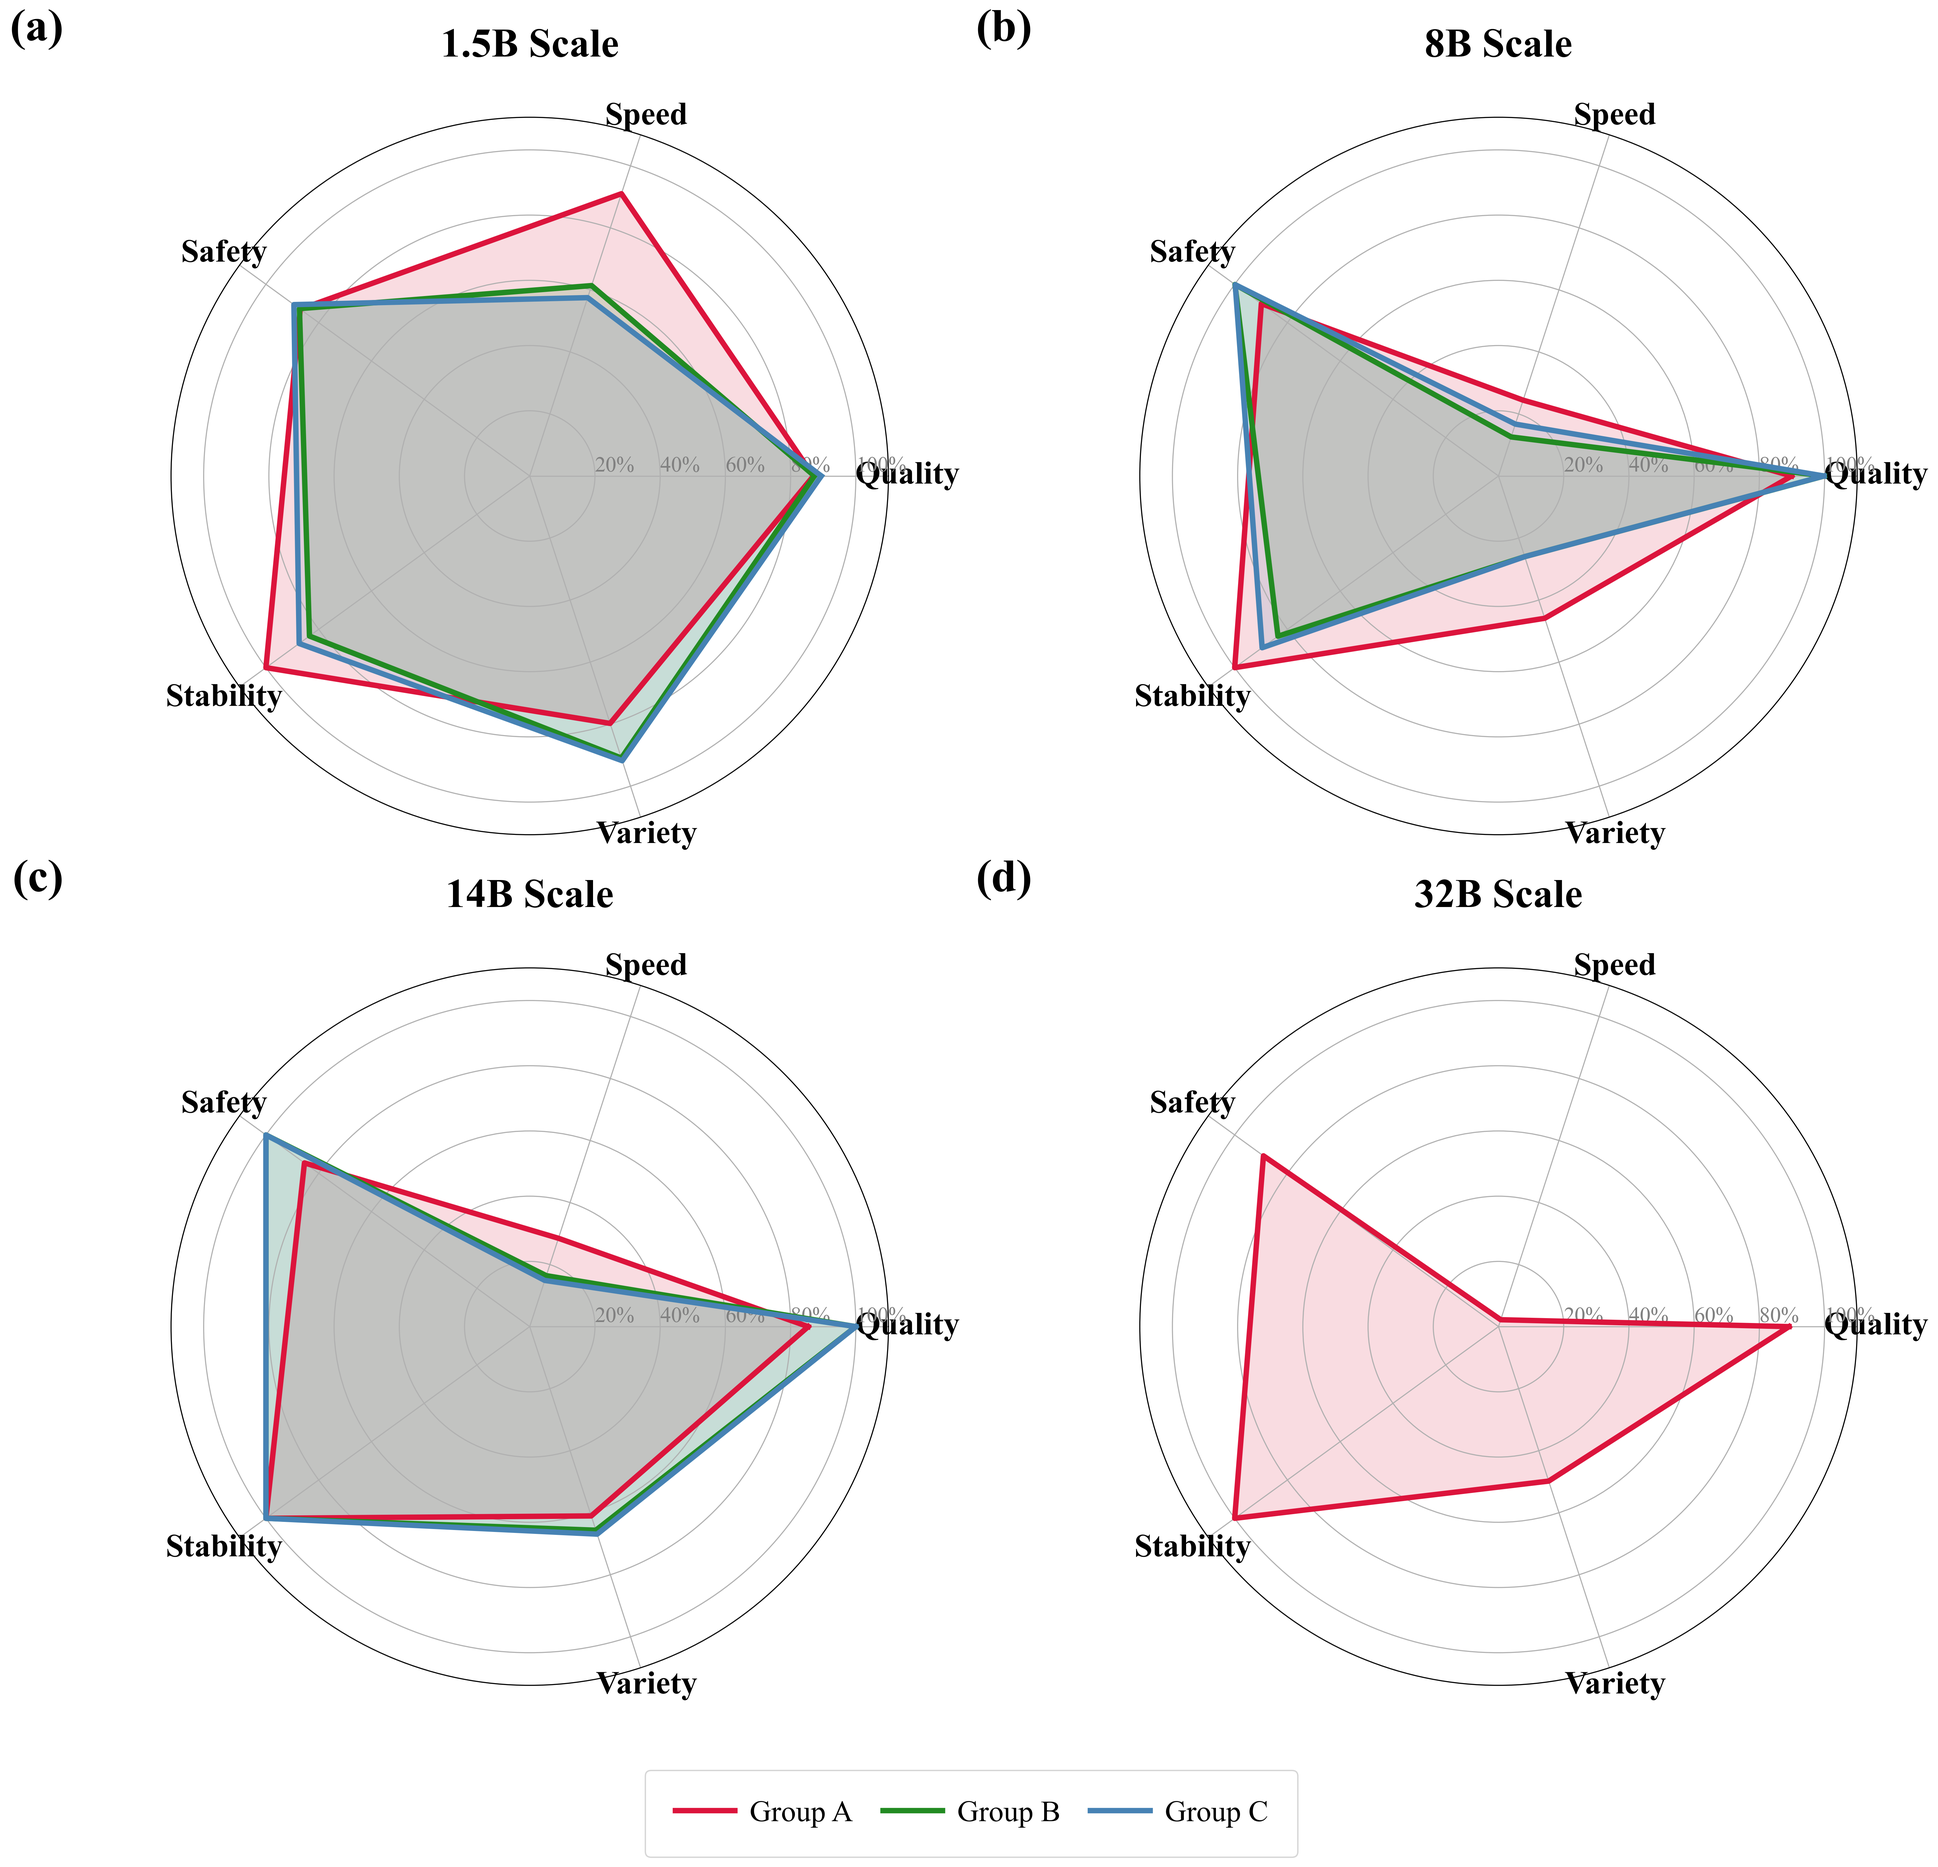
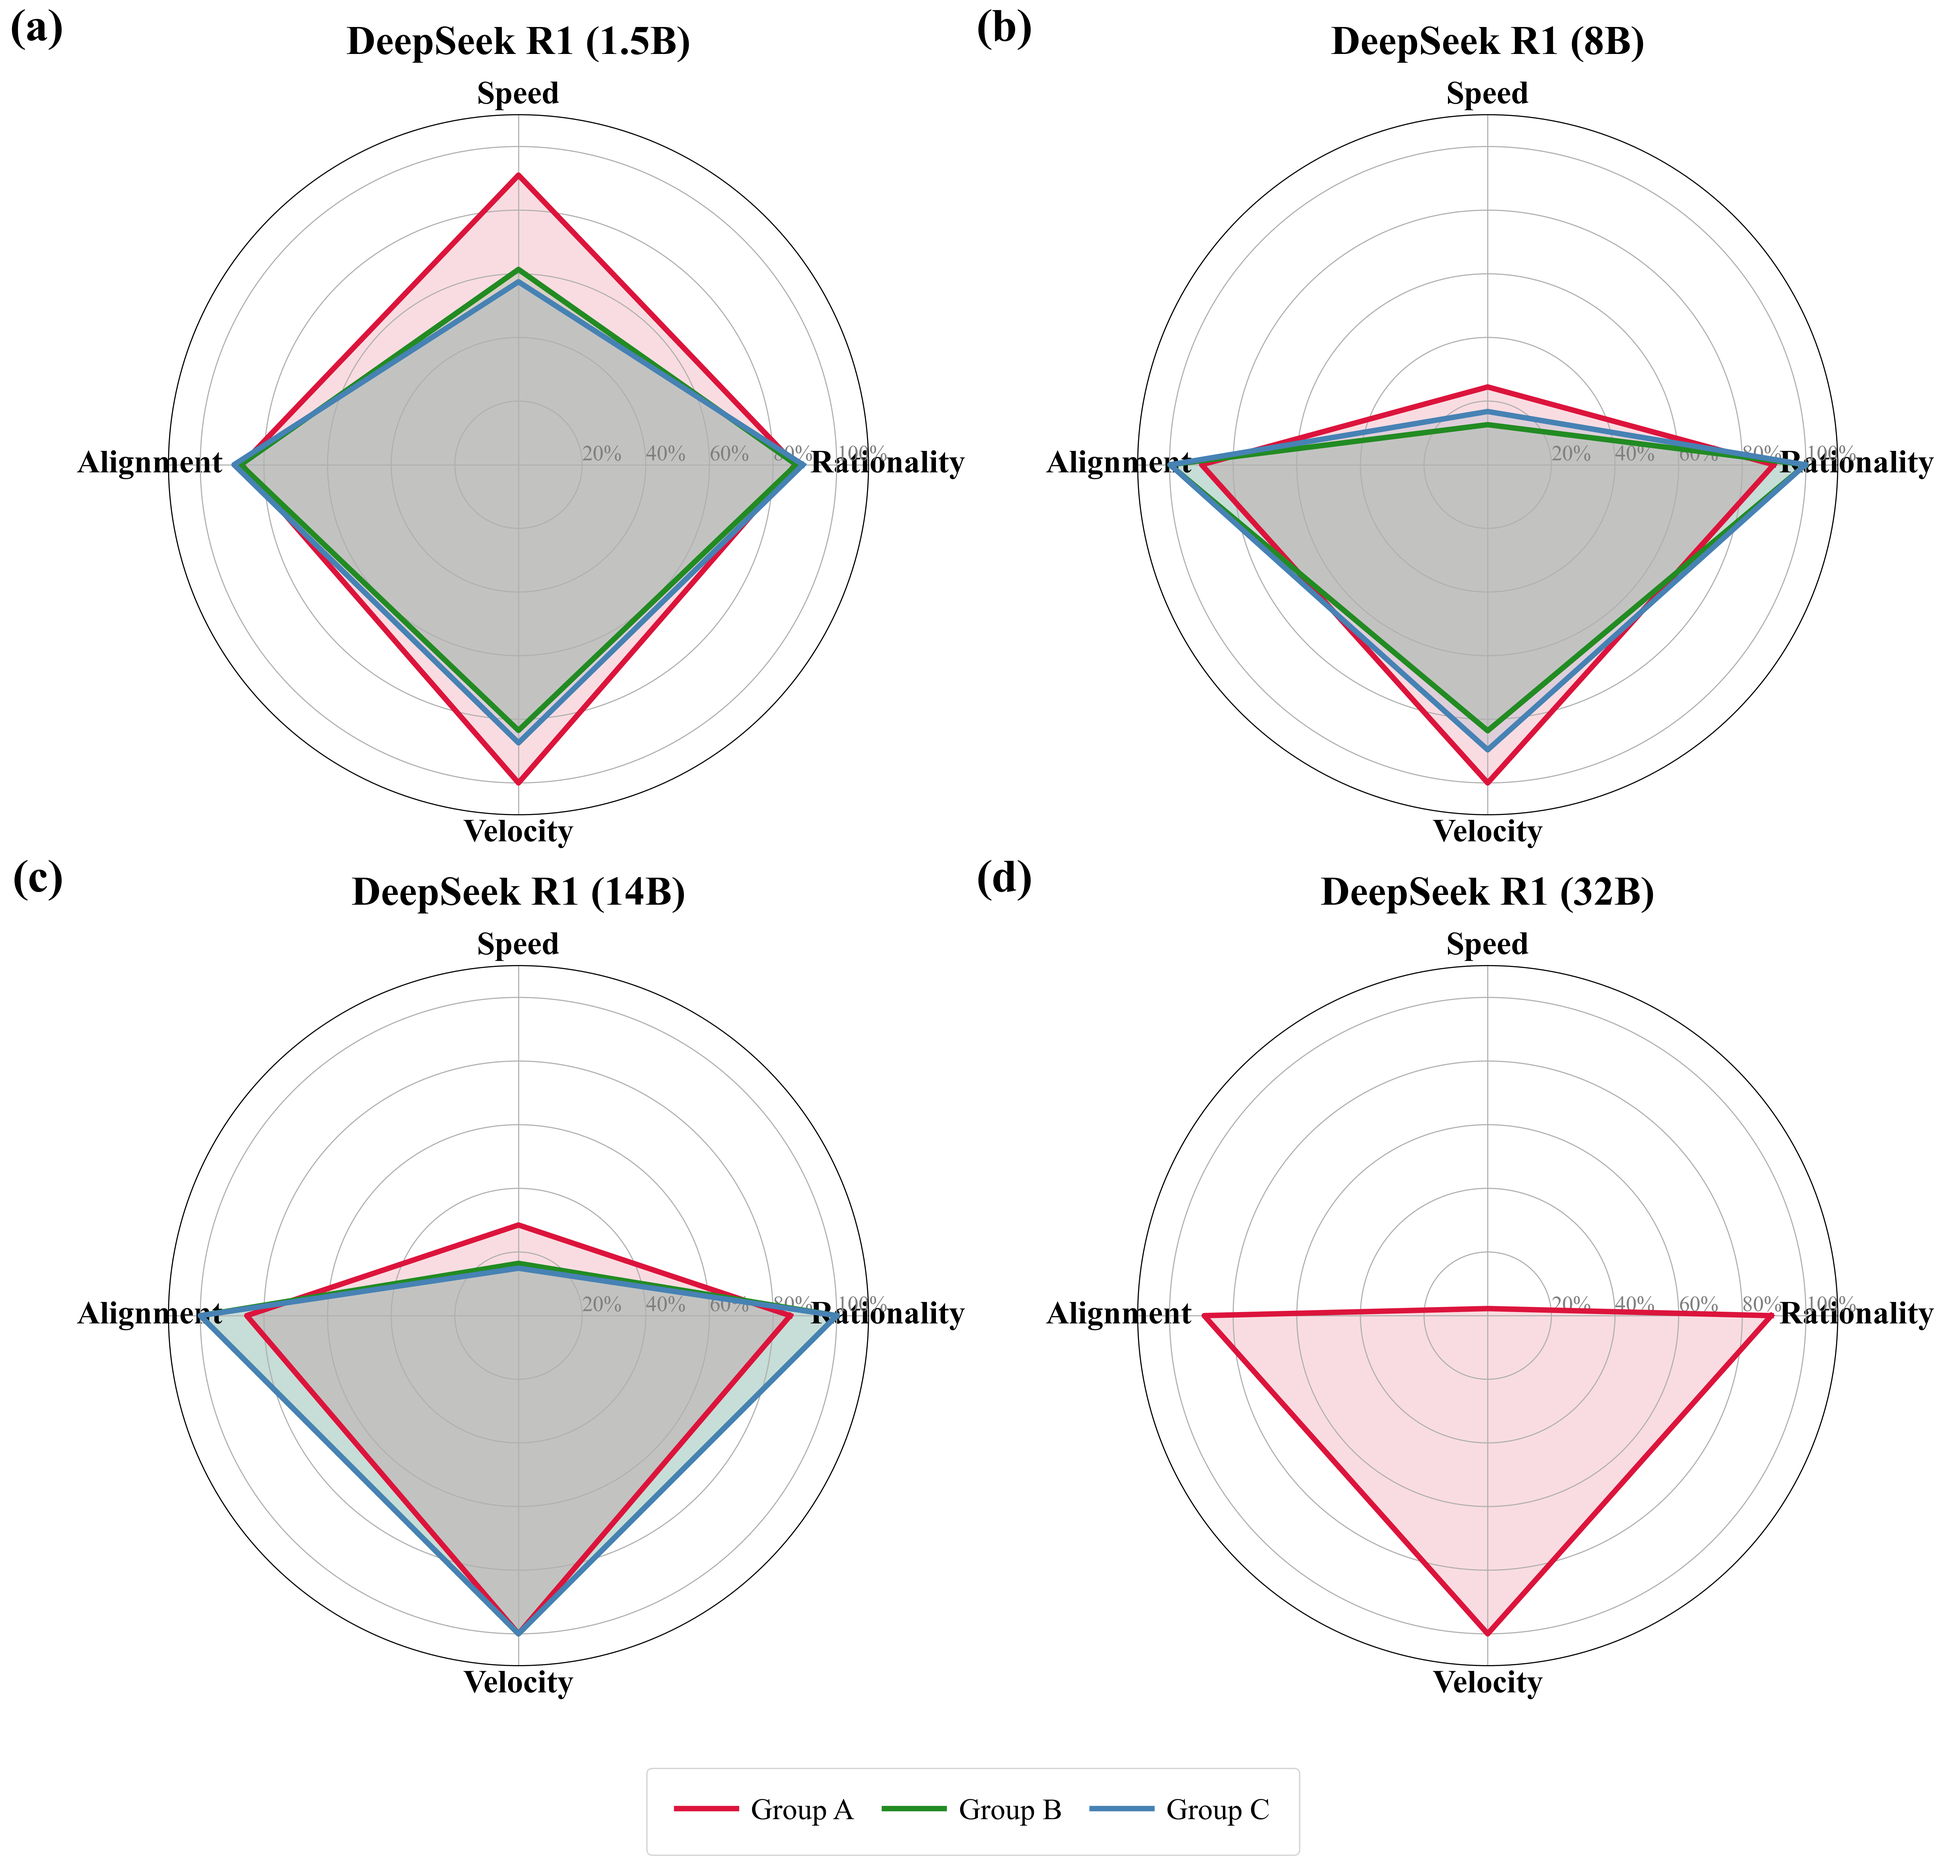
Finalize SQ3 Visualization: 4-Axis Radar, Safety->Alignment, Removed Variety

diff --git a/examples/single_agent/analysis/SQ3_Final_Results/plot_sq3_radar_scientific_v3.py b/examples/single_agent/analysis/SQ3_Final_Results/plot_sq3_radar_scientific_v3.py
@@ -19,14 +19,15 @@ df = pd.read_csv(DATA_PATH)
 
 # Models to compare
 models = [
-    ('deepseek_r1_1_5b', '1.5B Scale'),
-    ('deepseek_r1_8b', '8B Scale'),
-    ('deepseek_r1_14b', '14B Scale'),
-    ('deepseek_r1_32b', '32B Scale')
+    ('deepseek_r1_1_5b', 'DeepSeek R1 (1.5B)'),
+    ('deepseek_r1_8b', 'DeepSeek R1 (8B)'),
+    ('deepseek_r1_14b', 'DeepSeek R1 (14B)'),
+    ('deepseek_r1_32b', 'DeepSeek R1 (32B)')
 ]
 
 # 2. Plotting Setup
-labels = ['Quality', 'Speed', 'Safety', 'Stability', 'Variety']
+# 4 Axes: Quality, Alignment (ex-Safety), Stability, Speed
+labels = ['Rationality', 'Speed', 'Alignment', 'Velocity']
 num_vars = len(labels)
 angles = [n / float(num_vars) * 2 * pi for n in range(num_vars)]
 angles += angles[:1]
@@ -66,10 +67,9 @@ for i, (model_id, model_name) in enumerate(models):
         
         values = [
             row['Quality'],               # 0-100
-            min(100, (row['Speed'] / 20.0) * 100),  # Norm Speed (cap at 100 for viz)
-            row['Safety'],                # 0-100
-            row['Stability'],             # 0-100
-            row['Variety']                # Already 0-100 in CSV
+            min(100, (row['Speed'] / 20.0) * 100),  # Norm Speed
+            row['Safety'],                # Now Mapping 'Safety' col to 'Alignment' axis
+            row['Stability']              # 0-100
         ]
         values += values[:1]
         

diff --git a/examples/single_agent/analysis/SQ3_Final_Results/SQ3_Final_Report.md b/examples/single_agent/analysis/SQ3_Final_Results/SQ3_Final_Report.md
@@ -8,7 +8,7 @@ As LLM agents are deployed in critical social simulations, governance becomes es
 
 _Can the Governed Broker Framework serve as a viable holistic solution for deploying SLMs in scientific simulations with performance parity to benchmark large models?_
 
-SQ3 investigates whether our **Surgical Governance** framework can achieve high safety (Quality) with low overhead (Surgical Precision) and performance efficiency, providing a complete architectural bridge between small-scale models and large-scale performance.
+SQ3 investigates whether our **Surgical Governance** framework can achieve high policy alignment (Quality) with low overhead (Surgical Precision) and performance efficiency, providing a complete architectural bridge between small-scale models and large-scale performance.
 
 ---
 
@@ -28,23 +28,17 @@ To capture the "raw cognitive effort" and the benefits of Memory (Group C), we u
 - **Formula:** $\frac{N + \text{Retries}}{\text{Runtime (min)}}$
 - **Significance:** Captures operational throughput including framework overhead.
 
-### III. Safety (Policy Alignment)
+### III. Alignment (Policy Compliance)
 
 - **Definition:** Degree of system self-governance; measures native alignment with rules.
 - **Formula:** $1.0 - \frac{\text{Rule Interventions}}{N}$
-- **Significance:** High Safety (1.0) means the model is natively aligned; lower scores indicate heavy "Rule Steering" effort.
+- **Significance:** High Alignment (1.0) means the model is natively aligned; lower scores indicate heavy "Rule Steering" effort.
 
 ### IV. Stability (Structural Robustness)
 
 - **Definition:** The model's native ability to maintain JSON schema and structural integrity.
 - **Formula:** $1.0 - \frac{\text{Technical Retries}}{N}$
 - **Significance:** Inverse of the "Incompetence Load"; measures technical reliability.
-
-### V. Variety (Behavioral Diversity)
-
-- **Definition:** The diversity of agent decisions within a simulation year, standardized to a 0.0-1.0 scale.
-- **Formula:** $H_{norm} = \frac{-\sum p_i \log_2 p_i}{\log_2 k}$ (where $k=5$ actions).
-- **Significance:** Measures the system's resistance to "Mode Collapse". Higher scores indicate a healthy, heterogeneous agent population.
 
 ---
 
@@ -60,21 +54,20 @@ The 2x2 radar grid demonstrates the **"Performance Gap & Memory Gain"**:
 
 - **Layered Performance (C > B > A)**: For smaller models (1.5B), the polygons are nested. Group C shows the largest area, proving that **Historical Memory reduces the need for framework intervention** by aligning the model's intent with the scientific context.
 - **Native Stability Gap**: While larger models (8B+) show high native Stability, the 1.5B Native model relies heavily on the framework to repair structural hallucinations.
-- **The Efficiency Narrative**: Safety and Quality for Governed groups are no longer "flat 100%". They reflect the model's raw resistance to rules. Group C's higher score over B proves that memory-augmented agents are "natively safer".
+- **The Efficiency Narrative**: Alignment and Quality for Governed groups are no longer "flat 100%". They reflect the model's raw resistance to rules. Group C's higher score over B proves that memory-augmented agents are "natively safer".
 
-| AXIS (1.5B)   | Group A (Native) | Group B (Governed) | Group C (Memory) | Intent Gain (C vs A)    |
-| :------------ | :--------------: | :----------------: | :--------------: | :---------------------- |
-| **Quality**   |      56.1%       |       87.3%        |    **89.4%**     | **+33.3%**              |
-| **Safety**    |      56.1%       |       87.3%        |    **89.4%**     | **+33.3%**              |
-| **Stability** |     100.0%\*     |       83.5%        |    **87.4%**     | **Repair Overhead**     |
-| **Speed**     |    **18.20**     |       17.00        |      17.29       | **Efficiency Cost**     |
-| **Variety**   |       0.80       |        0.91        |     **0.92**     | **Cognitive Plurality** |
+| AXIS (1.5B)   | Group A (Native) | Group B (Governed) | Group C (Memory) | Intent Gain (C vs A) |
+| :------------ | :--------------: | :----------------: | :--------------: | :------------------- |
+| **Quality**   |      56.1%       |       87.3%        |    **89.4%**     | **+33.3%**           |
+| **Alignment** |      56.1%       |       87.3%        |    **89.4%**     | **+33.3%**           |
+| **Stability** |     100.0%\*     |       83.5%        |    **87.4%**     | **Repair Overhead**  |
+| **Speed**     |    **18.20**     |       17.00        |      17.29       | **Efficiency Cost**  |
 
 _\*Note: Group A stability appears high due to a lack of structured retry logging in native mode, but survival rates were lower._
 
 ### Key Findings:
 
-1. **Memory as an Aligner:** Group C consistently outperforms Group B in Quality and Safety, demonstrating that memory acts as a "soft governance" mechanism that pre-empts the need for "hard blocks".
+1. **Memory as an Aligner:** Group C consistently outperforms Group B in Quality and Alignment, demonstrating that memory acts as a "soft governance" mechanism that pre-empts the need for "hard blocks".
 2. **Structural Survival:** The 1.5B model's speed is maintained at ~17.2 decisions/min under governance, making it economically viable for large simulations.
 
 ---
@@ -83,9 +76,9 @@ _\*Note: Group A stability appears high due to a lack of structured retry loggin
 
 The "Surgical Governance" framework exhibits **Perfect Scalable Oversight** characteristics:
 
-- It **amplifies** the strengths of weak models (Restoring Variety).
+- It **amplifies** the strengths of weak models (Enabling Autonomy).
 - It **corrects** the fatal flaws of weak models (Optimizing Quality).
-- It **minimizes** Safety/Stability friction at larger scales (8B+ models).
+- It **minimizes** Alignment/Stability friction at larger scales (8B+ models).
 
 ---
 
